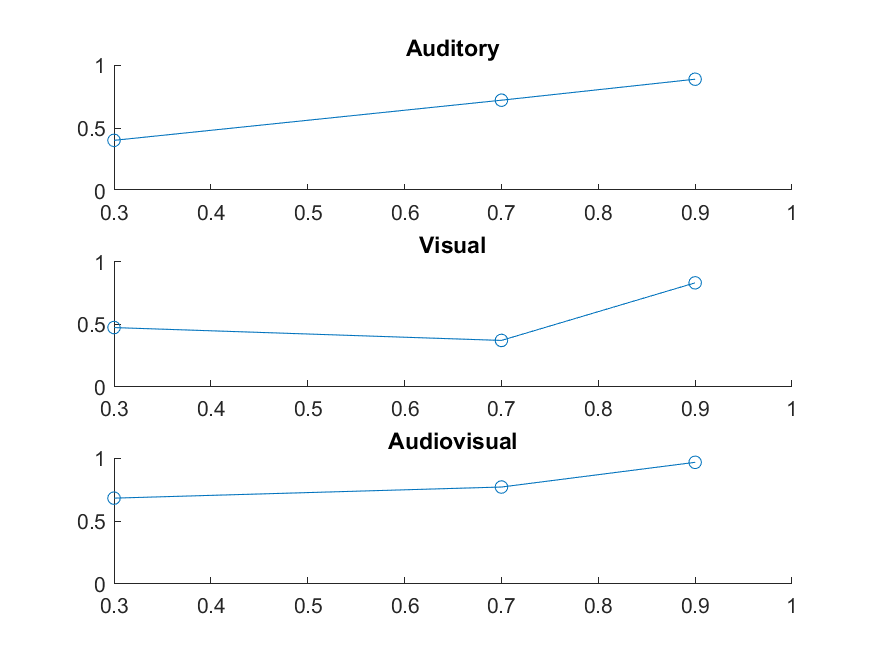
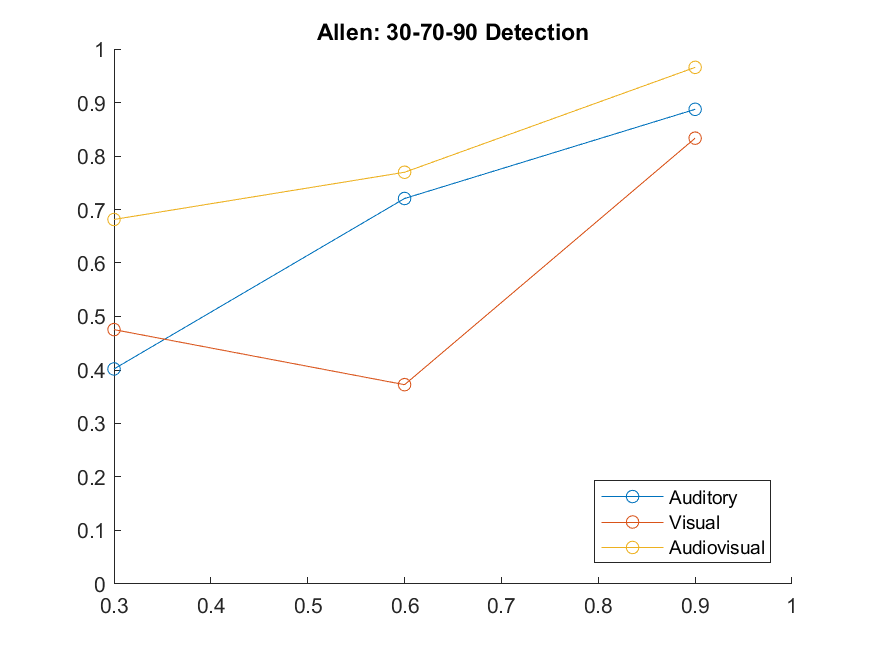
Analaysis Stuff

diff --git a/IETwo/analysis/Plot_IETwo.m b/IETwo/analysis/Plot_IETwo.m
@@ -37,12 +37,12 @@ for i = 1:numel(Aconds)                                      %looping through ea
 end 
 
 fig = figure;
-subplot(3,1,1);
+%subplot(3,1,1);
 % [param_aud, stat_aud] = sigm_fit(intensities, detection, [], [], 1);
 hold on;
 plot(intensities, detection(1,:),'Marker','o');
 set(gca,'ylim',[0 1]);
-title('Auditory')
+%title('Auditory')
 
 %VISUAL PLOTTING
 
@@ -66,12 +66,12 @@ for i = 1:numel(Vconds)                                      %looping through ea
     detection(2,i) = numberhits(2,i) / numberstims(2,i);
 end 
 
-subplot(3,1,2)
+%subplot(3,1,2)
 % [param_vis, stat_vis] = sigm_fit(intensities, detection, [], [], 1);
 hold on; 
 plot(intensities, detection(2,:),'Marker','o');
 set(gca,'ylim',[0 1]);
-title('Visual');
+%title('Visual');
 
 %AUDIOVISUAL PLOTTING
 
@@ -95,12 +95,14 @@ for i = 1:numel(AVconds)                                      %looping through e
     detection(3,i) = numberhits(3,i) / numberstims(3,i);
 end 
 
-subplot(3,1,3)
+%subplot(3,1,3)
 % [param_vis, stat_vis] = sigm_fit(intensities, detection, [], [], 1);
 hold on; 
 plot(intensities, detection(3,:),'Marker','o');
 set(gca,'ylim',[0 1]);
-title('Audiovisual');
+title(strcat('Eric',': 30-60-90 Detection'));
+legend({'Auditory','Visual','Audiovisual'},'Location','southeast')
+
  %% II: Save Fig
  savedestination = 'C:\Users\lhshaw\Documents\GitHub\movingstims\IETwo\plots';
  participant = cond.subject{1};

diff --git a/IESweep/SweepPlotter.m b/IESweep/SweepPlotter.m
@@ -67,7 +67,7 @@ plot(intensities, detection,'Marker','o');
 title('Visual')
 
 %% Save Fig
-savedestination = 'C:\Users\lhshaw\Desktop\movingstims\IESweep\plots';
+savedestination = 'C:\Users\lhshaw\Documents\GitHub\movingstims\IESweep\plots';
 participant = cond.subject{1};
 savefig(fig, strcat(savedestination, '\', participant, '_sweep.fig'));
 saveas(fig, strcat(savedestination, '\', participant, '_sweep.png'));
